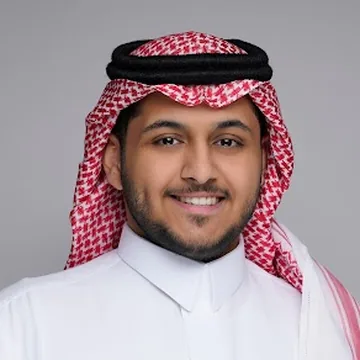
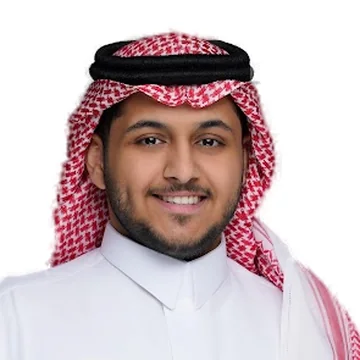
صور المتحدثين بخلفية بيضاء موحدة (#210)
خلفية بيضاء ووجوه موسطة بنفس المقاس

diff --git a/register.html b/register.html
@@ -453,25 +453,25 @@
       <h2>المتحدثون</h2>
       <div class="bn-speakers">
         <div class="bn-speaker">
-          <img src="assets/speakers/rashed-alawaji-sq.webp" alt="الأستاذ راشد العواجي" width="360" height="360" loading="lazy">
+          <img src="assets/speakers/rashed-alawaji-sq.webp?v=3" alt="الأستاذ راشد العواجي" width="360" height="360" loading="lazy">
           <div class="bn-name">أ. راشد العواجي</div>
           <div class="bn-role">الرئيس التنفيذي لشركة رياندا للاستشارات المهنية</div>
           <a href="https://www.linkedin.com/in/rashedawaji" target="_blank" rel="noopener">لينكد إن</a>
         </div>
         <div class="bn-speaker">
-          <img src="assets/speakers/jasem-alharoon-sq.webp" alt="الأستاذ جاسم الهارون" width="360" height="360" loading="lazy">
+          <img src="assets/speakers/jasem-alharoon-sq.webp?v=3" alt="الأستاذ جاسم الهارون" width="360" height="360" loading="lazy">
           <div class="bn-name">أ. جاسم الهارون</div>
           <div class="bn-role">مؤسس ورئيس تنفيذي لنظام سكب لأتمتة العمليات المالية والمحاسبية</div>
           <a href="https://www.linkedin.com/in/jalharoon" target="_blank" rel="noopener">لينكد إن</a>
         </div>
         <div class="bn-speaker">
-          <img src="assets/speakers/lamya-alrasheed-sq.webp" alt="الأستاذة لمياء الرشيد" width="360" height="360" loading="lazy">
+          <img src="assets/speakers/lamya-alrasheed-sq.webp?v=3" alt="الأستاذة لمياء الرشيد" width="360" height="360" loading="lazy">
           <div class="bn-name">أ. لمياء الرشيد</div>
           <div class="bn-role">شريك المراجعة في KPMG</div>
           <a href="https://www.linkedin.com/in/lamya-s-alrasheed-cpa-socpa-7a312b56" target="_blank" rel="noopener">لينكد إن</a>
         </div>
         <div class="bn-speaker">
-          <img src="assets/speakers/abdulrahman-alkharashi-sq.webp" alt="الأستاذ عبدالرحمن الخراشي" width="360" height="360" loading="lazy">
+          <img src="assets/speakers/abdulrahman-alkharashi-sq.webp?v=3" alt="الأستاذ عبدالرحمن الخراشي" width="360" height="360" loading="lazy">
           <div class="bn-name">أ. عبدالرحمن الخراشي</div>
           <div class="bn-role">استشاري في ديلويت</div>
           <a href="https://www.linkedin.com/in/abdulrahmanalkharashi" target="_blank" rel="noopener">لينكد إن</a>
